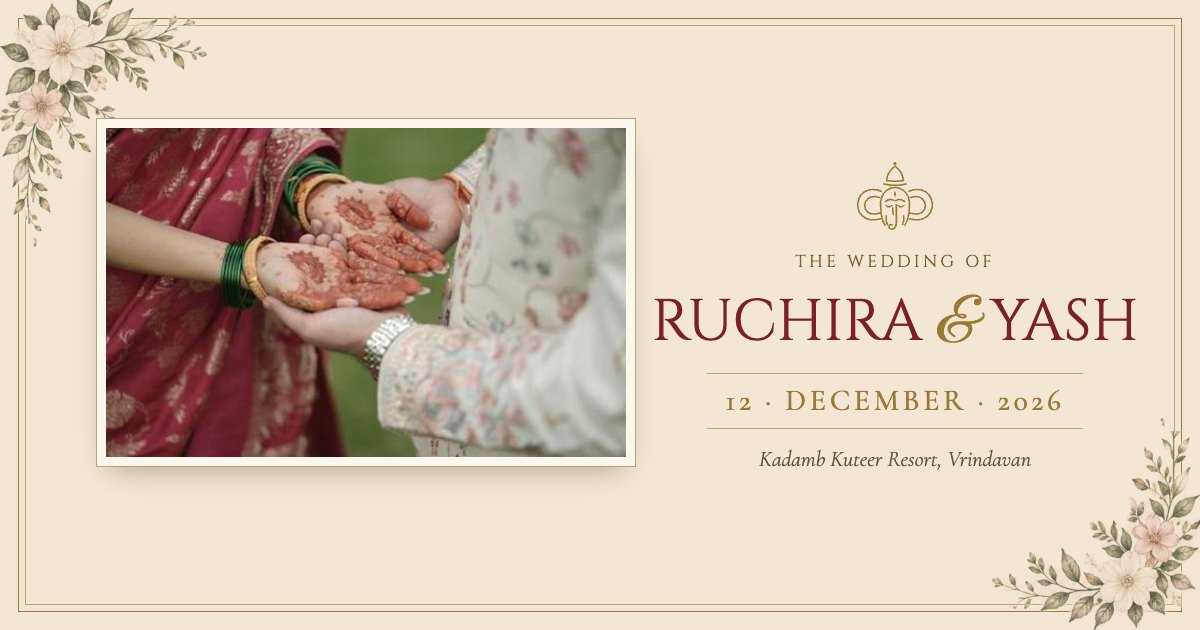
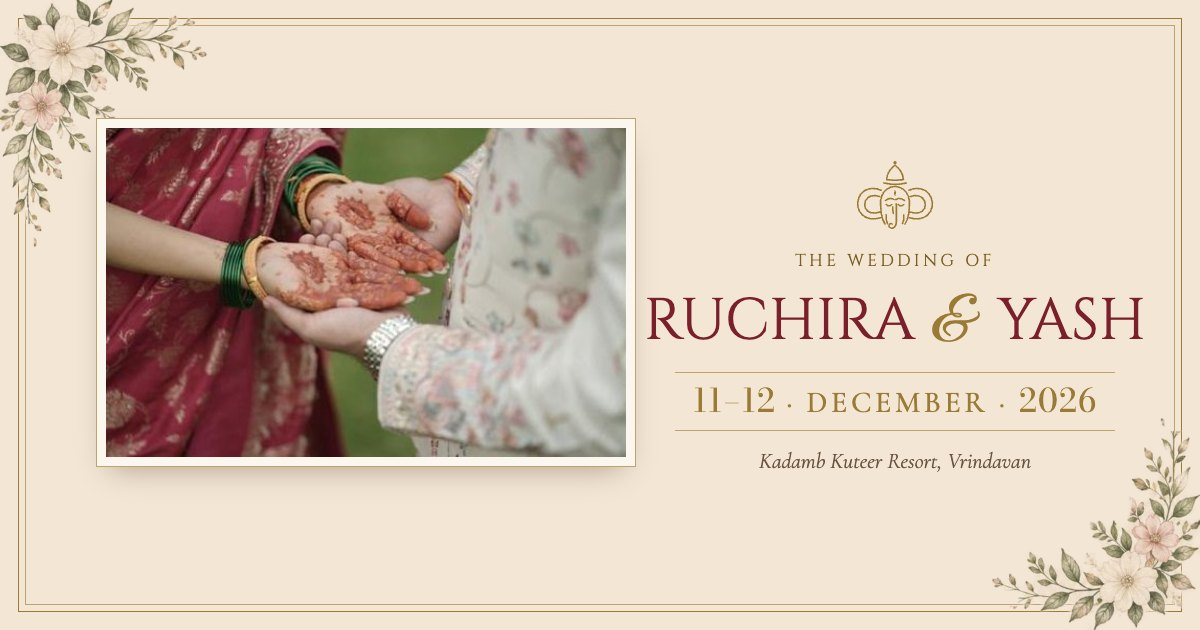
Move to r-weds-y.github.io; R ❤ Y preview title; two-day date in preview image

diff --git a/tools/og.html b/tools/og.html
@@ -1,7 +1,7 @@
 <!doctype html>
 <!-- Source for assets/og-image.jpg (1200×630). Render: see README "Regenerating the link-preview image". -->
 <html><head><meta charset="utf-8">
-<link rel="stylesheet" href="https://fonts.googleapis.com/css2?family=Cinzel&family=Cormorant+Garamond:ital,wght@0,500;1,400&family=Great+Vibes&display=block">
+<link rel="stylesheet" href="https://fonts.googleapis.com/css2?family=Cinzel&family=Cormorant+Garamond:ital,wght@0,500;1,400&family=Great+Vibes&family=Bodoni+Moda:opsz,wght@6..96,400&display=block">
 <style>
   html,body{margin:0}
   body{width:1200px;height:630px;position:relative;overflow:hidden;background:#F3E6D5;font-family:'Cormorant Garamond',serif;font-variant-numeric:lining-nums}
@@ -15,8 +15,9 @@
   svg{width:88px;height:78px;color:#9A7A35;margin-bottom:14px}
   .c{font:400 17px/1.7 Cinzel,serif;letter-spacing:.2em;color:#7A5E22;text-transform:uppercase}
   .n{font:400 58px/1.1 Cinzel,serif;color:#7A1F2B;margin:14px 0 12px;white-space:nowrap}
-  .n span{font-family:'Great Vibes';color:#9A7A35;font-size:1.1em}
-  .d{font:500 30px/1 'Cormorant Garamond';color:#9A7A35;letter-spacing:.12em;border-block:1px solid #BEA270;padding:12px 18px}
+  .n span{font-family:'Great Vibes';color:#9A7A35;font-size:1.1em;margin:0 .42em 0 .04em}
+  .d{font:500 30px/1 'Cormorant Garamond';color:#9A7A35;letter-spacing:.12em;border-block:1px solid #BEA270;padding:12px 18px;font-variant-numeric:lining-nums}
+  .d b{font:400 32px/1 'Bodoni Moda',serif;letter-spacing:.04em}
   .v{margin-top:16px;font:italic 400 22px/1.3 'Cormorant Garamond';color:#6A5640}
 </style></head><body>
 <div class="f"></div><div class="f2"></div>
@@ -25,8 +26,8 @@
 <div class="txt">
   <svg viewBox="0 0 132 116"><g fill="none" stroke="currentColor" stroke-width="2.4" stroke-linecap="round" stroke-linejoin="round"><path d="M53.5 36.5C53.5 27 59.5 20 66 14.5C72.5 20 78.5 27 78.5 36.5"/><path d="M48.5 41.5Q66 45.5 83.5 41.5"/><path d="M53.5 36.5Q66 38.5 78.5 36.5"/><path d="M44.5 76C42.5 59 52 47.5 66 46.5C80 47.5 89.5 59 87.5 76"/><path d="M44.5 76C44.5 88 47 97 51 103"/><path d="M87.5 76C87.5 88 85 97 81 103"/><path d="M45.5 52.5C31 45.5 12 51 10 71C8.5 89 26 100 44.5 93.5"/><path d="M86.5 52.5C101 45.5 120 51 122 71C123.5 89 106 100 87.5 93.5"/><path d="M43.5 62C31 57 20.5 63.5 20.5 74C20.5 84.5 31 89.5 43.5 85"/><path d="M88.5 62C101 57 111.5 63.5 111.5 74C111.5 84.5 101 89.5 88.5 85"/><path d="M65 66.5C61 63.5 55.5 64 51.5 68"/><path d="M67 66.5C71 63.5 76.5 64 80.5 68"/><path d="M52.5 73.5Q57 78 61.5 73.5"/><path d="M70.5 73.5Q75 78 79.5 73.5"/><path d="M68 72.5V100C68 108.5 61 112 57.5 107.5C55 104 59 100.5 62 103.5"/><path d="M62.5 77C62.5 81 62.7 84.5 63.5 87.5"/><path d="M53 89C52 94 52.8 99 55 103"/><path d="M79 89C80 94 79.2 99 77 103"/></g><circle cx="66" cy="11" r="2.4" fill="currentColor"/><path d="M66 52C68.2 55 68.2 58 66 61C63.8 58 63.8 55 66 52Z" fill="currentColor"/></svg>
   <div class="c">The wedding of</div>
-  <div class="n">RUCHIRA <span>&amp;</span> YASH</div>
-  <div class="d">12 · DECEMBER · 2026</div>
+  <div class="n">RUCHIRA <span>&amp;</span>YASH</div>
+  <div class="d"><b>11–12</b> · DECEMBER · <b>2026</b></div>
   <div class="v">Kadamb Kuteer Resort, Vrindavan</div>
 </div>
 </body></html>

diff --git a/index.html b/index.html
@@ -3,7 +3,7 @@
 <head>
 <meta charset="utf-8">
 <meta name="viewport" content="width=device-width, initial-scale=1, viewport-fit=cover">
-<title>Ruchira &amp; Yash · 12 December 2026</title>
+<title>R ❤ Y · 11–12 December 2026</title>
 <meta name="description" content="Together with their families, you are cordially invited to the wedding of Ruchira &amp; Yash · Kadamb Kuteer Resort, Vrindavan">
 <meta name="robots" content="noindex,nofollow">
 <meta name="theme-color" content="#F3E6D5">
@@ -13,17 +13,17 @@
 <!-- Link preview (WhatsApp / iMessage / Telegram). og:image & og:url MUST be absolute (they point at the live GitHub Pages URL;
      update them if the site moves to a custom domain — see README). -->
 <meta property="og:type" content="website">
-<meta property="og:title" content="Ruchira &amp; Yash · 12 December 2026">
+<meta property="og:title" content="R ❤ Y · 11–12 December 2026">
 <meta property="og:description" content="Together with their families, you are cordially invited…">
-<meta property="og:url" content="https://yashvardhan18.github.io/ruchira-yash/">
-<meta property="og:image" content="https://yashvardhan18.github.io/ruchira-yash/assets/og-image.jpg">
+<meta property="og:url" content="https://r-weds-y.github.io/">
+<meta property="og:image" content="https://r-weds-y.github.io/assets/og-image.jpg">
 <meta property="og:image:width" content="1200">
 <meta property="og:image:height" content="630">
 <meta property="og:image:alt" content="Ruchira &amp; Yash — wedding invitation, 12 December 2026">
 <meta name="twitter:card" content="summary_large_image">
-<meta name="twitter:title" content="Ruchira &amp; Yash · 12 December 2026">
+<meta name="twitter:title" content="R ❤ Y · 11–12 December 2026">
 <meta name="twitter:description" content="Together with their families, you are cordially invited…">
-<meta name="twitter:image" content="https://yashvardhan18.github.io/ruchira-yash/assets/og-image.jpg">
+<meta name="twitter:image" content="https://r-weds-y.github.io/assets/og-image.jpg">
 
 <link rel="icon" href="assets/icons/favicon.svg" type="image/svg+xml">
 <link rel="icon" href="assets/icons/favicon-32.png" sizes="32x32" type="image/png">

diff --git a/config.js b/config.js
@@ -6,7 +6,7 @@
    ========================================================================= */
 window.WEDDING = {
   couple: { bride: 'Ruchira', groom: 'Yash' },
-  siteUrl: 'https://yashvardhan18.github.io/ruchira-yash/', // used in the calendar file (node tools/make-ics.js)
+  siteUrl: 'https://r-weds-y.github.io/', // used in the calendar file (node tools/make-ics.js)
 
   // All times are IST. Always keep the +05:30 offset — never rely on device timezone.
   weddingStart: '2026-12-11T11:00:00+05:30', // countdown target: the Haldi, when the festivities begin
